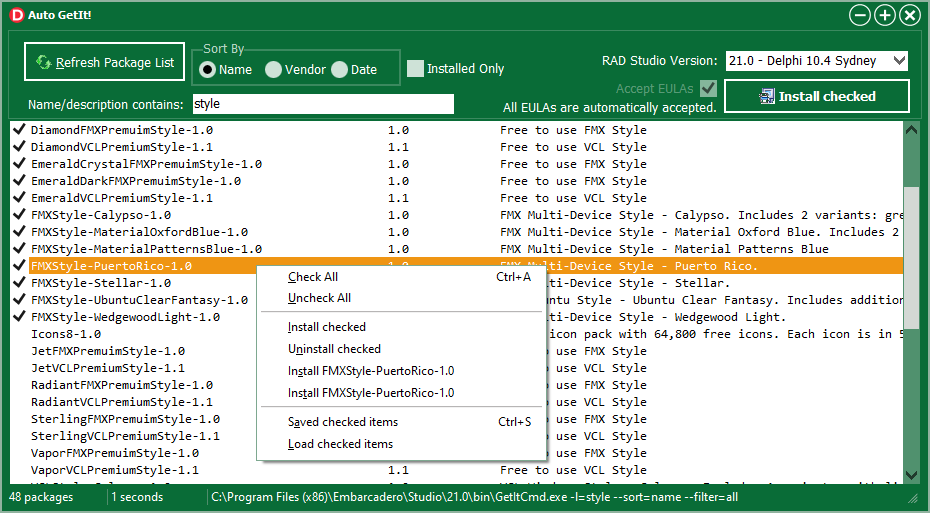
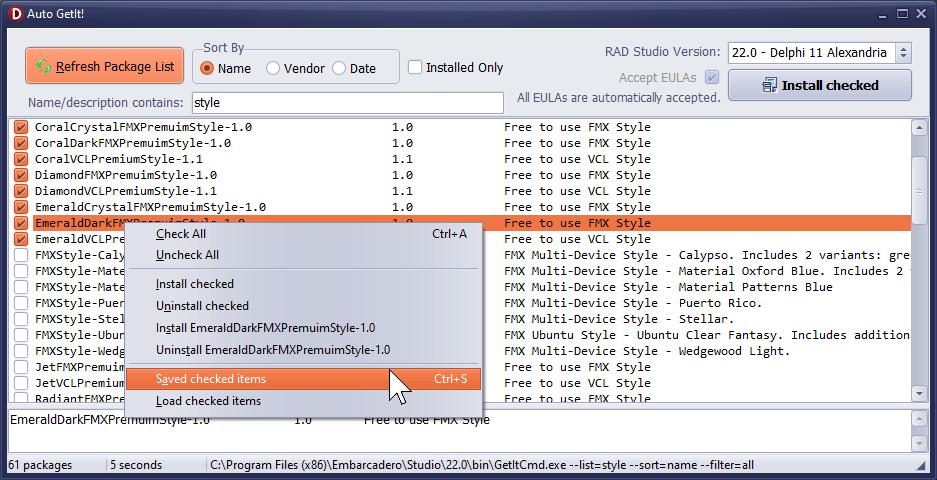
updated screenshot and README

diff --git a/README.md b/README.md
@@ -1,9 +1,11 @@
 # AutoGetIt
 The idea with this small Delphi program is to automate the [GetIt package manager](http://docwiki.embarcadero.com/RADStudio/Sydney/en/Installing_a_Package_Using_GetIt_Package_Manager) for RAD Studio (Delphi) by calling the GetIt command-line tool that comes with Delphi.  Every time there's an update or a need to reinstall, it's a pain to tediously and manually go through all the GetIt packages and reinstall them. Wouldn't it be nice if there was a saved checklist?
 
+Now there is!
+
 This Delphi program uses the DosCommand component (available on GetIt) to shell out to the GetItCmd.exe and show all the packages in a CheckListBox. You then simply check off all the packages you want to install, click the Install button, and sit back and watch them all get installed (some require authorization so it's not completely unattended). You can also right+click on this list to select all or none, or uninstall the checked packages instead, or install/uninstall just one package at a time.
 
-_Written in Delphi 10.4.1, tested on the update to Delphi 10.4.2: installed over 75 packages in less than 30 mintues!_
+_Originally Written in Delphi 10.4.1, tested on the update to Delphi 10.4.2: installed over 75 packages in less than 30 mintues!_
 
 ## Batch files
 
@@ -15,6 +17,7 @@ To run the batch files, start a DOS Prompt as Administrator, run the `rsvars.bat
 
 - [Enabling GetIt Install Logs](https://blog.marcocantu.com/blog/2018-july-getit-install-logs.html)
 - [Delphi 10.4.2 Release Notes](http://docwiki.embarcadero.com/RADStudio/Sydney/en/Release_Notes)
+- [Delphi 11 Release Notes](https://docwiki.embarcadero.com/RADStudio/Alexandria/en/Release_Notes)
 
 ## Screenshot
 
